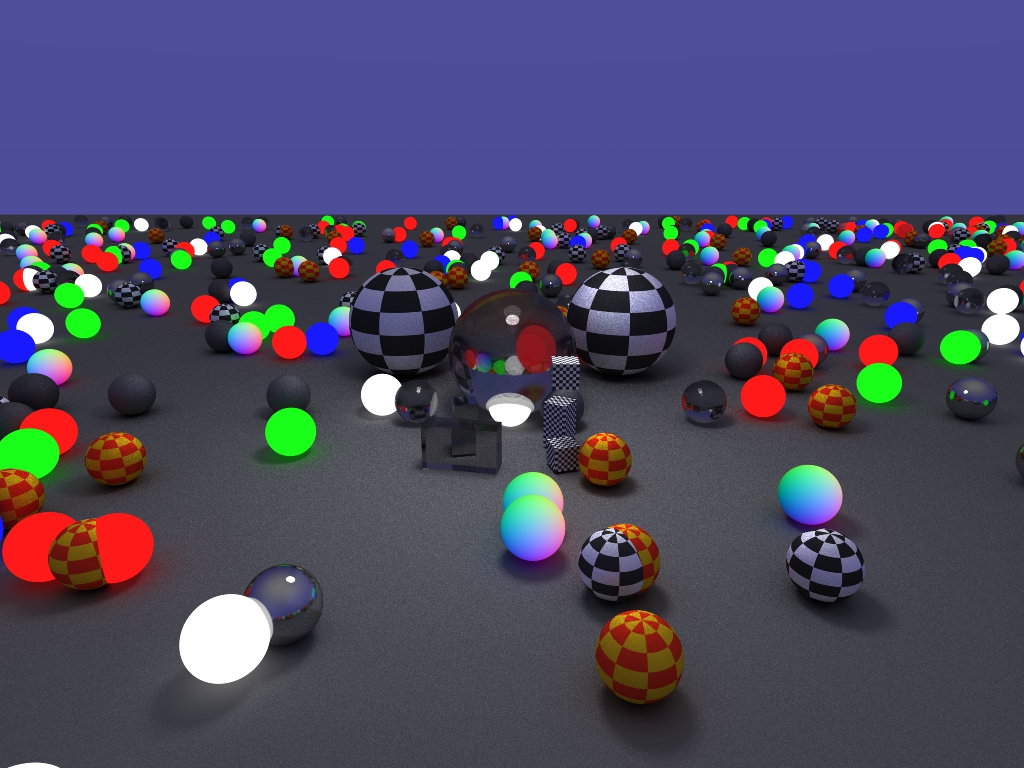
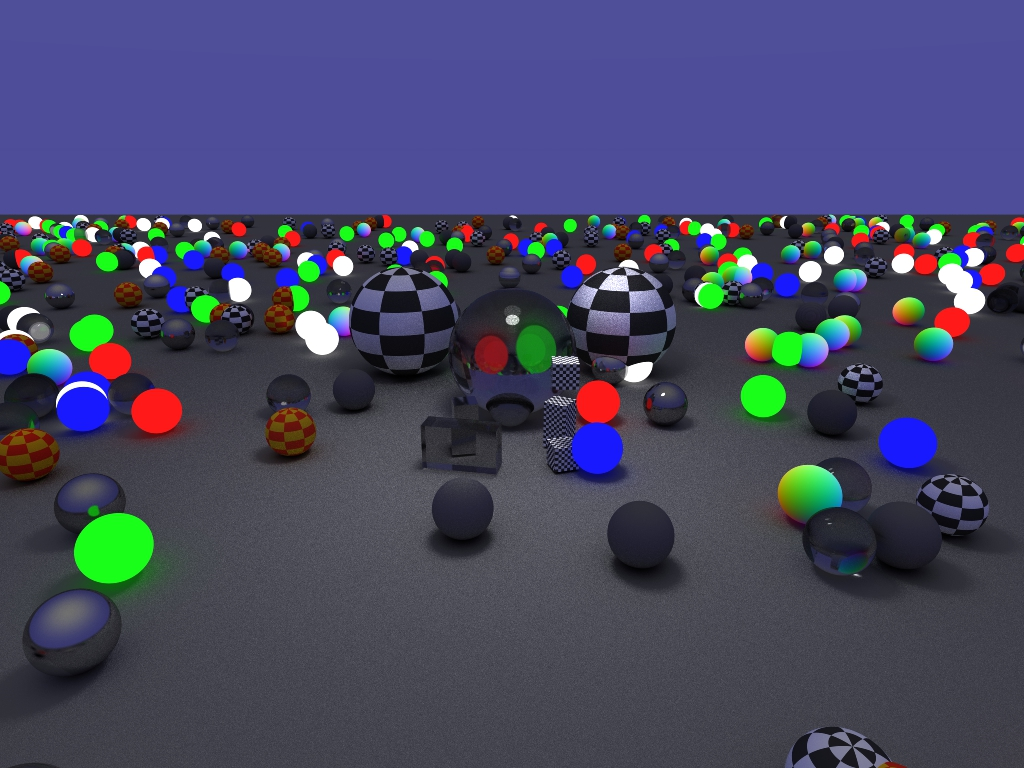
playing with BVH

diff --git a/main.cpp b/main.cpp
@@ -236,10 +236,13 @@ int main(int argc, char *argv[])
     pScene->addNode(std::make_unique<Transform>(std::make_unique<Box>(Vec(15, 9, 5), pGlass1.get()), axisEulerZYX(0, -0.2, 0, Vec(-10, 5, 40))));
     pScene->addNode(std::make_unique<Transform>(std::make_unique<Sphere>(15, pLight1.get()), axisTranslation(Vec(0, 100, 40))));
     
-    std::uniform_real_distribution<float> dist(-400, 400);
+    std::uniform_real_distribution<float> dp(-400, 400);
+    std::uniform_real_distribution<float> dr(0, LNF::pi);
     
     for (int i = 0; i < 1000; i++) {
-        pScene->addNode(std::make_unique<Transform>(std::make_unique<Sphere>(5, materials[i%materials.size()]), axisEulerZYX(0, 0, 0, Vec(dist(generator), 5, dist(generator)))));
+        pScene->addNode(std::make_unique<Transform>(std::make_unique<Sphere>(5,
+                                                                             materials[i % materials.size()]),
+                                                                             axisEulerZYX(0, dr(generator), 0, Vec(dp(generator), 5, dp(generator)))));
     }
     
     pScene->build();
